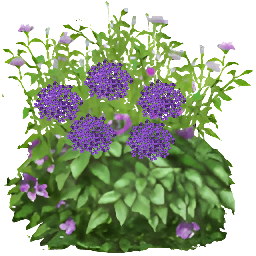
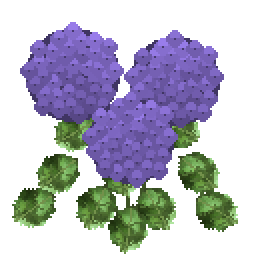
Rework hydrangeas from photo references with rounded low-poly heads and white halos

diff --git a/tools/map-editor/lake-textures.py b/tools/map-editor/lake-textures.py
@@ -1,7 +1,8 @@
-"""Manual palette edits and cut/paste of native Sky blossoms; no generated imagery."""
+"""Hand-drawn low-resolution hydrangeas using native leaf pixels; no AI imagery."""
 from pathlib import Path
-from PIL import Image, ImageFilter
+from PIL import Image, ImageFilter, ImageDraw, ImageChops
 import math
+import random
 
 ROOT = Path(__file__).resolve().parents[2] / 'activity/assets/sky'
 OUT = ROOT / 'lac-rouge-prototype'
@@ -9,41 +10,65 @@ OUT = ROOT / 'lac-rouge-prototype'
 def build():
     OUT.mkdir(exist_ok=True)
     original = Image.open(ROOT / 'halloween-dungeon/T153nk10.png').convert('RGBA')
-    # Isolate the existing violet/white petals, leaving native leaf pixels alone.
-    petals = Image.new('RGBA', original.size)
-    for y in range(original.height):
-        for x in range(original.width):
-            r,g,b,a = original.getpixel((x,y))
-            if a and (b > g * 1.04 and r > g * 1.02 or min(r,g,b) > 165 and max(r,g,b)-min(r,g,b) < 42):
-                petals.putpixel((x,y),(r,g,b,a))
-    # Reuse a flower already drawn by Falcom to form compact hydrangea-like heads.
-    flower = petals.crop((20,173,48,200)).resize((9,9),Image.Resampling.NEAREST)
-    variants = {}
-    for name, tint in [('blanc',(1,.96,1)), ('violet',(.7,.42,1))]:
-        im=original.copy()
-        # Copy/paste several small florets into five overlapping round bouquets.
-        for cx,cy in [(57,102),(107,80),(160,100),(90,134),(149,140)]:
-            for i in range(38):
-                angle=i*2.39996; radius=22*math.sqrt(i/38)
-                dx=round(math.cos(angle)*radius);dy=round(math.sin(angle)*radius*.8)
-                stamp=flower.rotate((i%4)*90)
-                for y in range(stamp.height):
-                    for x in range(stamp.width):
-                        r,g,b,a=stamp.getpixel((x,y))
-                        if a:
-                            light=max(r,g,b)/255
-                            stamp.putpixel((x,y),tuple(round(255*light*c) for c in tint)+(a,))
-                im.alpha_composite(stamp,(cx+dx-4,cy+dy-4))
-        glow=Image.new('RGBA', im.size)
-        for y in range(im.height):
-            for x in range(im.width):
-                r,g,b,a=im.getpixel((x,y))
-                if a and (b>g*1.04 and r>g*1.02 or min(r,g,b)>165 and max(r,g,b)-min(r,g,b)<42):
-                    glow.putpixel((x,y),tuple(round(c*255) for c in tint)+(round(a*.7),))
-        glow=glow.filter(ImageFilter.GaussianBlur(2.5))
+    # Reference silhouette: broad, opposite leaves and large rounded mopheads.
+    # Hand-built pixel collage from native foliage; no photographs are textured in.
+    leaf=original.crop((82,160,118,204)).resize((20,25),Image.Resampling.NEAREST)
+    leaf_mask=Image.new('L',leaf.size)
+    ImageDraw.Draw(leaf_mask).polygon([(10,0),(17,5),(19,13),(16,20),(10,24),(3,20),(0,12),(3,5)],fill=255)
+    leaf.putalpha(leaf_mask)
+    ld=ImageDraw.Draw(leaf);ld.line([(10,2),(10,23)],fill=(115,145,75,255),width=1)
+    for yy in (7,12,17):
+        ld.line([(10,yy+4),(4,yy)],fill=(80,111,51,255),width=1)
+        ld.line([(10,yy+4),(16,yy)],fill=(80,111,51,255),width=1)
+    for name, tint in [('blanc',(240,240,222)), ('violet',(137,112,210))]:
+        rng=random.Random(451)
+        im=Image.new('RGBA',(128,128))
+        draw=ImageDraw.Draw(im)
+        for x,y in [(36,41),(85,45),(65,70)]:
+            draw.line([(64,121),(x,y)],fill=(61,82,37,255),width=2)
+        for x,y,angle in [(29,87,-50),(48,104,-22),(78,104,32),(99,86,50),(38,65,-60),(89,64,65),(61,87,12),(64,114,-8),(17,103,-55),(108,106,60)]:
+            patch=leaf.rotate(angle,resample=Image.Resampling.NEAREST,expand=True)
+            im.alpha_composite(patch,(round(x-patch.width/2),round(y-patch.height/2)))
+        foliage=im.crop((0,64,128,128)).resize((256,256),Image.Resampling.NEAREST)
+        foliage.save(OUT/'hortensias-feuillage.png')
+        bloom=Image.new('L',im.size)
+        # Three large heads, each composed of overlapping four-sepal flowers.
+        for cx,cy,r in [(36,37,25),(87,40,24),(65,70,23)]:
+            draw=ImageDraw.Draw(im)
+            draw.ellipse((cx-r+2,cy-r+2,cx+r-2,cy+r-2),fill=tuple(round(v*.47) for v in tint)+(255,))
+            ImageDraw.Draw(bloom).ellipse((cx-r,cy-r,cx+r,cy+r),fill=255)
+            for i in range(40):
+                a=i*2.39996;rr=(r-2)*math.sqrt(i/40)
+                x=round(cx+math.cos(a)*rr);y=round(cy+math.sin(a)*rr)
+                shade=.68+.25*(1-(y-(cy-r))/(2*r)) + rng.uniform(-.09,.09)
+                # Low-resolution light/shadow patches, like the native plant atlas.
+                col=tuple(min(255,round(v*shade)) for v in tint)+(255,)
+                hi=tuple(min(255,round(v*min(1.12,shade+.15))) for v in tint)+(255,)
+                draw.ellipse((x-4,y-2,x,y+2),fill=col)
+                draw.ellipse((x,y-2,x+4,y+2),fill=col)
+                draw.ellipse((x-2,y-4,x+2,y),fill=hi)
+                draw.ellipse((x-2,y,x+2,y+4),fill=col)
+                draw.point((x,y),fill=tuple(round(v*.52) for v in tint)+(255,))
+        head=im.crop((11,12,62,63)).resize((128,128),Image.Resampling.NEAREST)
+        head.save(OUT/f'bouquet-{name}.png')
+        im=im.resize((256,256),Image.Resampling.NEAREST)
+        # White RGB throughout: blurring RGBA would darken RGB as well as alpha,
+        # squaring attenuation and making the old halo almost invisible.
+        mask=bloom.resize((256,256),Image.Resampling.NEAREST)
+        wide=mask.filter(ImageFilter.MaxFilter(13)).filter(ImageFilter.GaussianBlur(11))
+        edge=ImageChops.subtract(wide,mask.point(lambda v:round(v*.72)))
+        glow=Image.new('RGBA',im.size,(255,255,255,0))
+        glow.putalpha(edge.point(lambda v:round(v*.85)))
         im.save(OUT / f'hortensias-{name}.png')
         glow.save(OUT / f'hortensias-{name}-halo.png')
-        variants[name]=str(OUT / f'hortensias-{name}.png')
+    # Straight alpha with white RGB for the soft volume surrounding each head.
+    aura=Image.new('RGBA',(128,128),(255,255,255,0))
+    for y in range(128):
+        for x in range(128):
+            r=math.hypot((x-63.5)/63.5,(y-63.5)/63.5)
+            a=round(180*max(0,1-r*r)**2)
+            aura.putpixel((x,y),(255,255,255,a))
+    aura.save(OUT/'bouquet-halo-blanc.png')
     for source,name in [('T02O1703.png','eau-rouge'),('T02O1803.png','reflets-rouges')]:
         im=Image.open(ROOT/'halloween-dungeon'/source).convert('RGBA')
         for y in range(im.height):

diff --git a/tools/map-editor/README.md b/tools/map-editor/README.md
@@ -43,6 +43,6 @@ Les descriptions de `TABLE FC.xlsx`, `TABLE SC.xlsx`, `TABLE 3RD (3).xlsx` et `T
 
 Pour modifier un modèle déjà posé, sélectionner l’objet puis **Modifier les morceaux du modèle…**. Dans cette fenêtre, Ctrl+clic sélectionne plusieurs morceaux ; on peut les supprimer ou recolorer leurs textures ensemble, en conservant leur transparence. Le découpage propose les morceaux connectés, les surfaces/textures, ou les faces triangulaires pour une sélection fine (maximum 6 000 faces ; isoler un morceau plus petit au besoin). **Appliquer à cet objet** crée une variante réservée à cet objet, sans déplacer son pivot ni modifier les autres exemplaires. Fermer sans appliquer abandonne le brouillon ; Ctrl+Z annule l’application. Sauvegarder le projet conserve la variante et ses textures ; l’export les inclut.
 
-**Prototype du lac rouge** : `http://127.0.0.1:3040/?project=lac-rouge-prototype` ouvre un étage indépendant dans l’atelier. Lac rouge à deux couches animées natives, îlot central, deux ponts, berges en pierre d’Esmelas et massifs blancs/violets lumineux. Les bouquets sont une retouche manuelle par copier/coller des fleurs natives `T153nk10`, sur des panneaux croisés, conservée en 256 × 256 ; ce ne sont pas de nouveaux modèles générés par IA. Les parois utilisent les panneaux natifs d’Esmelas ; le plan de sol est assemblé manuellement avec sa texture de pierre. L’eau n’est pas une surface jouable. Aucun ennemi. Les cinq étages existants restent inchangés ; le prototype utilise le contexte `hallow1` uniquement pour son test local. **Tester en jeu** utilise l’export de ce projet. **Appliquer localement** est désactivé pour ce prototype afin de préserver le premier étage local.
+**Prototype du lac rouge** : `http://127.0.0.1:3040/?project=lac-rouge-prototype` ouvre un étage indépendant dans l’atelier. Lac rouge à deux couches animées natives, îlot central, deux ponts, berges en pierre d’Esmelas et massifs blancs/violets lumineux. Les hortensias suivent les photos de référence : larges feuilles natives retouchées et bouquets ronds à petites fleurs dessinées à la main en pixels. Les têtes sont des volumes facettés simples (48 triangles chacune), lisibles depuis le dessus, avec un halo blanc diffus indépendant de l’éclairage. Atlas en 256 × 256, textures des têtes et du halo en 128 × 128 ; aucun modèle généré par IA. Les parois utilisent les panneaux natifs d’Esmelas ; le plan de sol est assemblé manuellement avec sa texture de pierre. L’eau n’est pas une surface jouable. Aucun ennemi. Les cinq étages existants restent inchangés ; le prototype utilise le contexte `hallow1` uniquement pour son test local. **Tester en jeu** utilise l’export de ce projet. **Appliquer localement** est désactivé pour ce prototype afin de préserver le premier étage local.
 
 `node tools/map-editor/lake-prototype.cjs` régénère la source et l’export à partir de la source native `hallow1`, avec Python/Pillow pour les palettes et les fleurs. Les projets sauvegardés restent prioritaires sur la source régénérée. Les objets sont nommés et modifiables séparément ; les lumières sont partagées par groupes de fleurs. **Aperçu sans outils** masque les panneaux et les repères pour juger l’ambiance ; **Revenir à l’éditeur** les rétablit. Le paramètre `preview=1` ouvre directement cet aperçu.

diff --git a/activity/assets/sky/lac-rouge-prototype/README.md b/activity/assets/sky/lac-rouge-prototype/README.md
@@ -2,7 +2,9 @@ Prototype local « Le lac des hortensias ».
 
 - `eau-rouge.png` : palette rouge de l’eau native `T02O1703.png`.
 - `reflets-rouges.png` : palette rouge des reflets natifs `T02O1803.png`.
-- `hortensias-blanc.png` / `hortensias-violet.png` : texture native `T153nk10.png`, bouquets réassemblés par copier/coller de ses propres pétales puis recolorés. Dimensions natives 256 × 256 et transparence conservées.
-- `*-halo.png` : masque diffus des pétales, pour une émission douce occluse par les murs.
+- `hortensias-feuillage.png` : larges feuilles découpées et retouchées depuis `T153nk10.png`, assemblées manuellement.
+- `bouquet-blanc.png` / `bouquet-violet.png` : petites fleurs à quatre sépales dessinées à la main en pixels, regroupées en têtes rondes d’après les deux photos de référence de l’utilisateur. Textures 128 × 128 sur petits volumes facettés de 48 triangles par tête.
+- `bouquet-halo-blanc.png` : halo blanc à alpha diffus, indépendant de la lumière de la scène. RGB blanc conservé jusque dans les zones transparentes pour éviter une double atténuation.
+- `hortensias-blanc.png` / `hortensias-violet.png` : atlas de contrôle du buisson complet, 256 × 256. Les anciens `*-halo.png` restent des masques de contrôle.
 
-Retouches déterministes dans `tools/map-editor/lake-textures.py`. Aucun asset généré par IA. Ces massifs sont une adaptation visuelle de la plante native, pas l’extraction d’un modèle d’hortensia identifié dans les jeux.
+Retouches déterministes dans `tools/map-editor/lake-textures.py`. Aucun asset généré par IA. Les photos servent de référence de forme et de palette ; elles ne sont pas utilisées comme textures photographiques. Les petits volumes des têtes sont assemblés manuellement dans `lake-prototype.cjs` pour éviter la forme d’étoile des panneaux croisés vus d’en haut.
